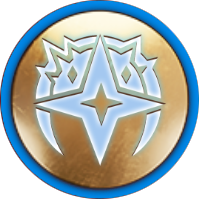
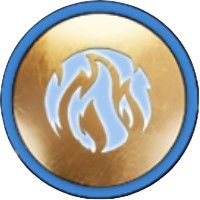
Added two new hook nodes in the center of the tree

diff --git a/src/constants/Nodes.ts b/src/constants/Nodes.ts
@@ -41,6 +41,26 @@ const OVERPOWER =
 
 const SkillNodes: SkillNodesType = {
   types: {
+    GIANT_SLAYER_HOOK: {
+      name: "GIANT SLAYER HOOK",
+      description: [
+        "Use your Grappling Hook to pull yourself towards large enemies during combat.",
+      ],
+      hasAsset: true,
+      selectableAsset: "giant_slayer_hook_1.png",
+      selectedAsset: "giant_slayer_hook_2.png",
+      color: "gold",
+      cost: 5,
+    },
+    GROUNDING_HOOK: {
+      name: "GROUNDING HOOK",
+      description: [
+        "Use your Grappling Hook to pull flying enemies towards you during combat.",
+      ],
+      hasAsset: true,
+      color: "gold",
+      cost: 2,
+    },
     SAVIOUR: {
       name: "SAVIOUR",
       description: [
@@ -2161,6 +2181,21 @@ const SkillNodes: SkillNodesType = {
       distance: 560,
       angle: 225,
     },
+    "192": {
+      id: "192",
+      type: "GIANT_SLAYER_HOOK",
+      base: true,
+      tier: "large",
+      distance: -100,
+      angle: 285,
+    },
+    "193": {
+      id: "193",
+      type: "GROUNDING_HOOK",
+      tier: "large",
+      distance: -180,
+      angle: 295,
+    },
   },
   edges: {
     "1": [],
@@ -2354,6 +2389,8 @@ const SkillNodes: SkillNodesType = {
     "189": ["184", "190"],
     "190": ["189"],
     "191": ["185"],
+    "192": ["193"],
+    "193": ["192"],
   },
 };
 

diff --git a/src/components/TreeLabels.tsx b/src/components/TreeLabels.tsx
@@ -1,6 +1,6 @@
-import { classNames } from "@/utils/utils";
-import Image from "next/image";
 import React from "react";
+import Image from "next/image";
+import { classNames } from "@/utils/utils";
 
 type Labels = {
   name: string;
